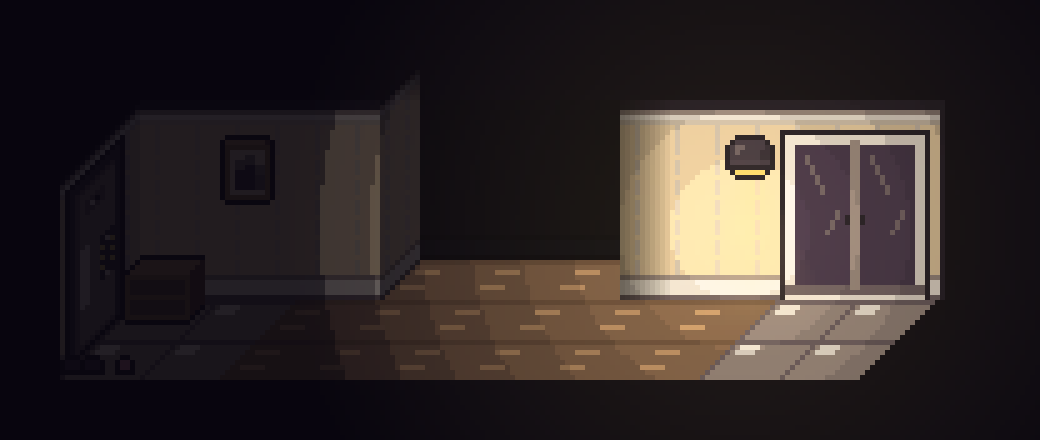
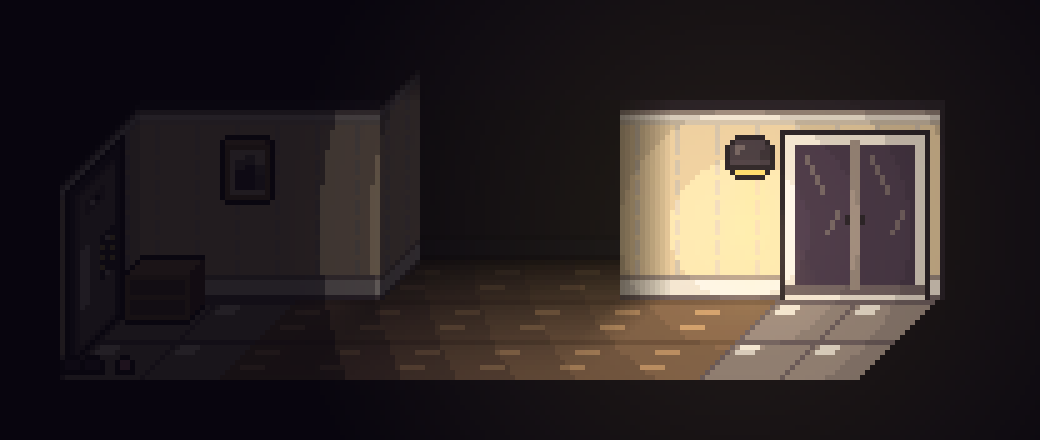
Corridor: smooth floor gradient toward the black recess
Claude-Session: https://claude.ai/code/session_01FPZSaKiVNU2zED737yZX4w

Changed region(s): [[0.3692, 0.5909, 0.6154, 0.7682]]

diff --git a/tools/render_room.py b/tools/render_room.py
@@ -57,6 +57,11 @@ def render_room(path, scale=1):
             col = get(tile(ch), int(x), 15 - int(d % T))
             if d >= D - 4 and rc and ra * T <= x < (rb + 1) * T and extra_dark:           # 알코브 바닥: 안쪽으로 갈수록 검게 사라진다
                 k = max(.14, .6 - (d - (D - 4)) / (RD + 4) * .4); col = (int(col[0] * k), int(col[1] * k), int(col[2] * k), col[3])
+            if rc and extra.get('recess_panel') == 'black':                              # 검은 면 앞 바닥: 안쪽(검은 쪽)으로 갈수록 부드럽게 어두워진다
+                tt = max(0.0, min(1.0, (d - (D - 30)) / (30 + RD)))
+                lo, hi = ra * T, (rb + 1) * T; hx = 1.0 if lo <= x < hi else max(0.0, 1 - (lo - x) / 10 if x < lo else 1 - (x - hi + 1) / 10)
+                kk = 1 - .9 * (tt ** 1.3) * hx
+                col = (int(col[0] * kk), int(col[1] * kk), int(col[2] * kk), col[3])
             px[X, Y] = col
     # 왼쪽 벽
     for X in range(int(X0), int(X0 + SK * D) + 1):
